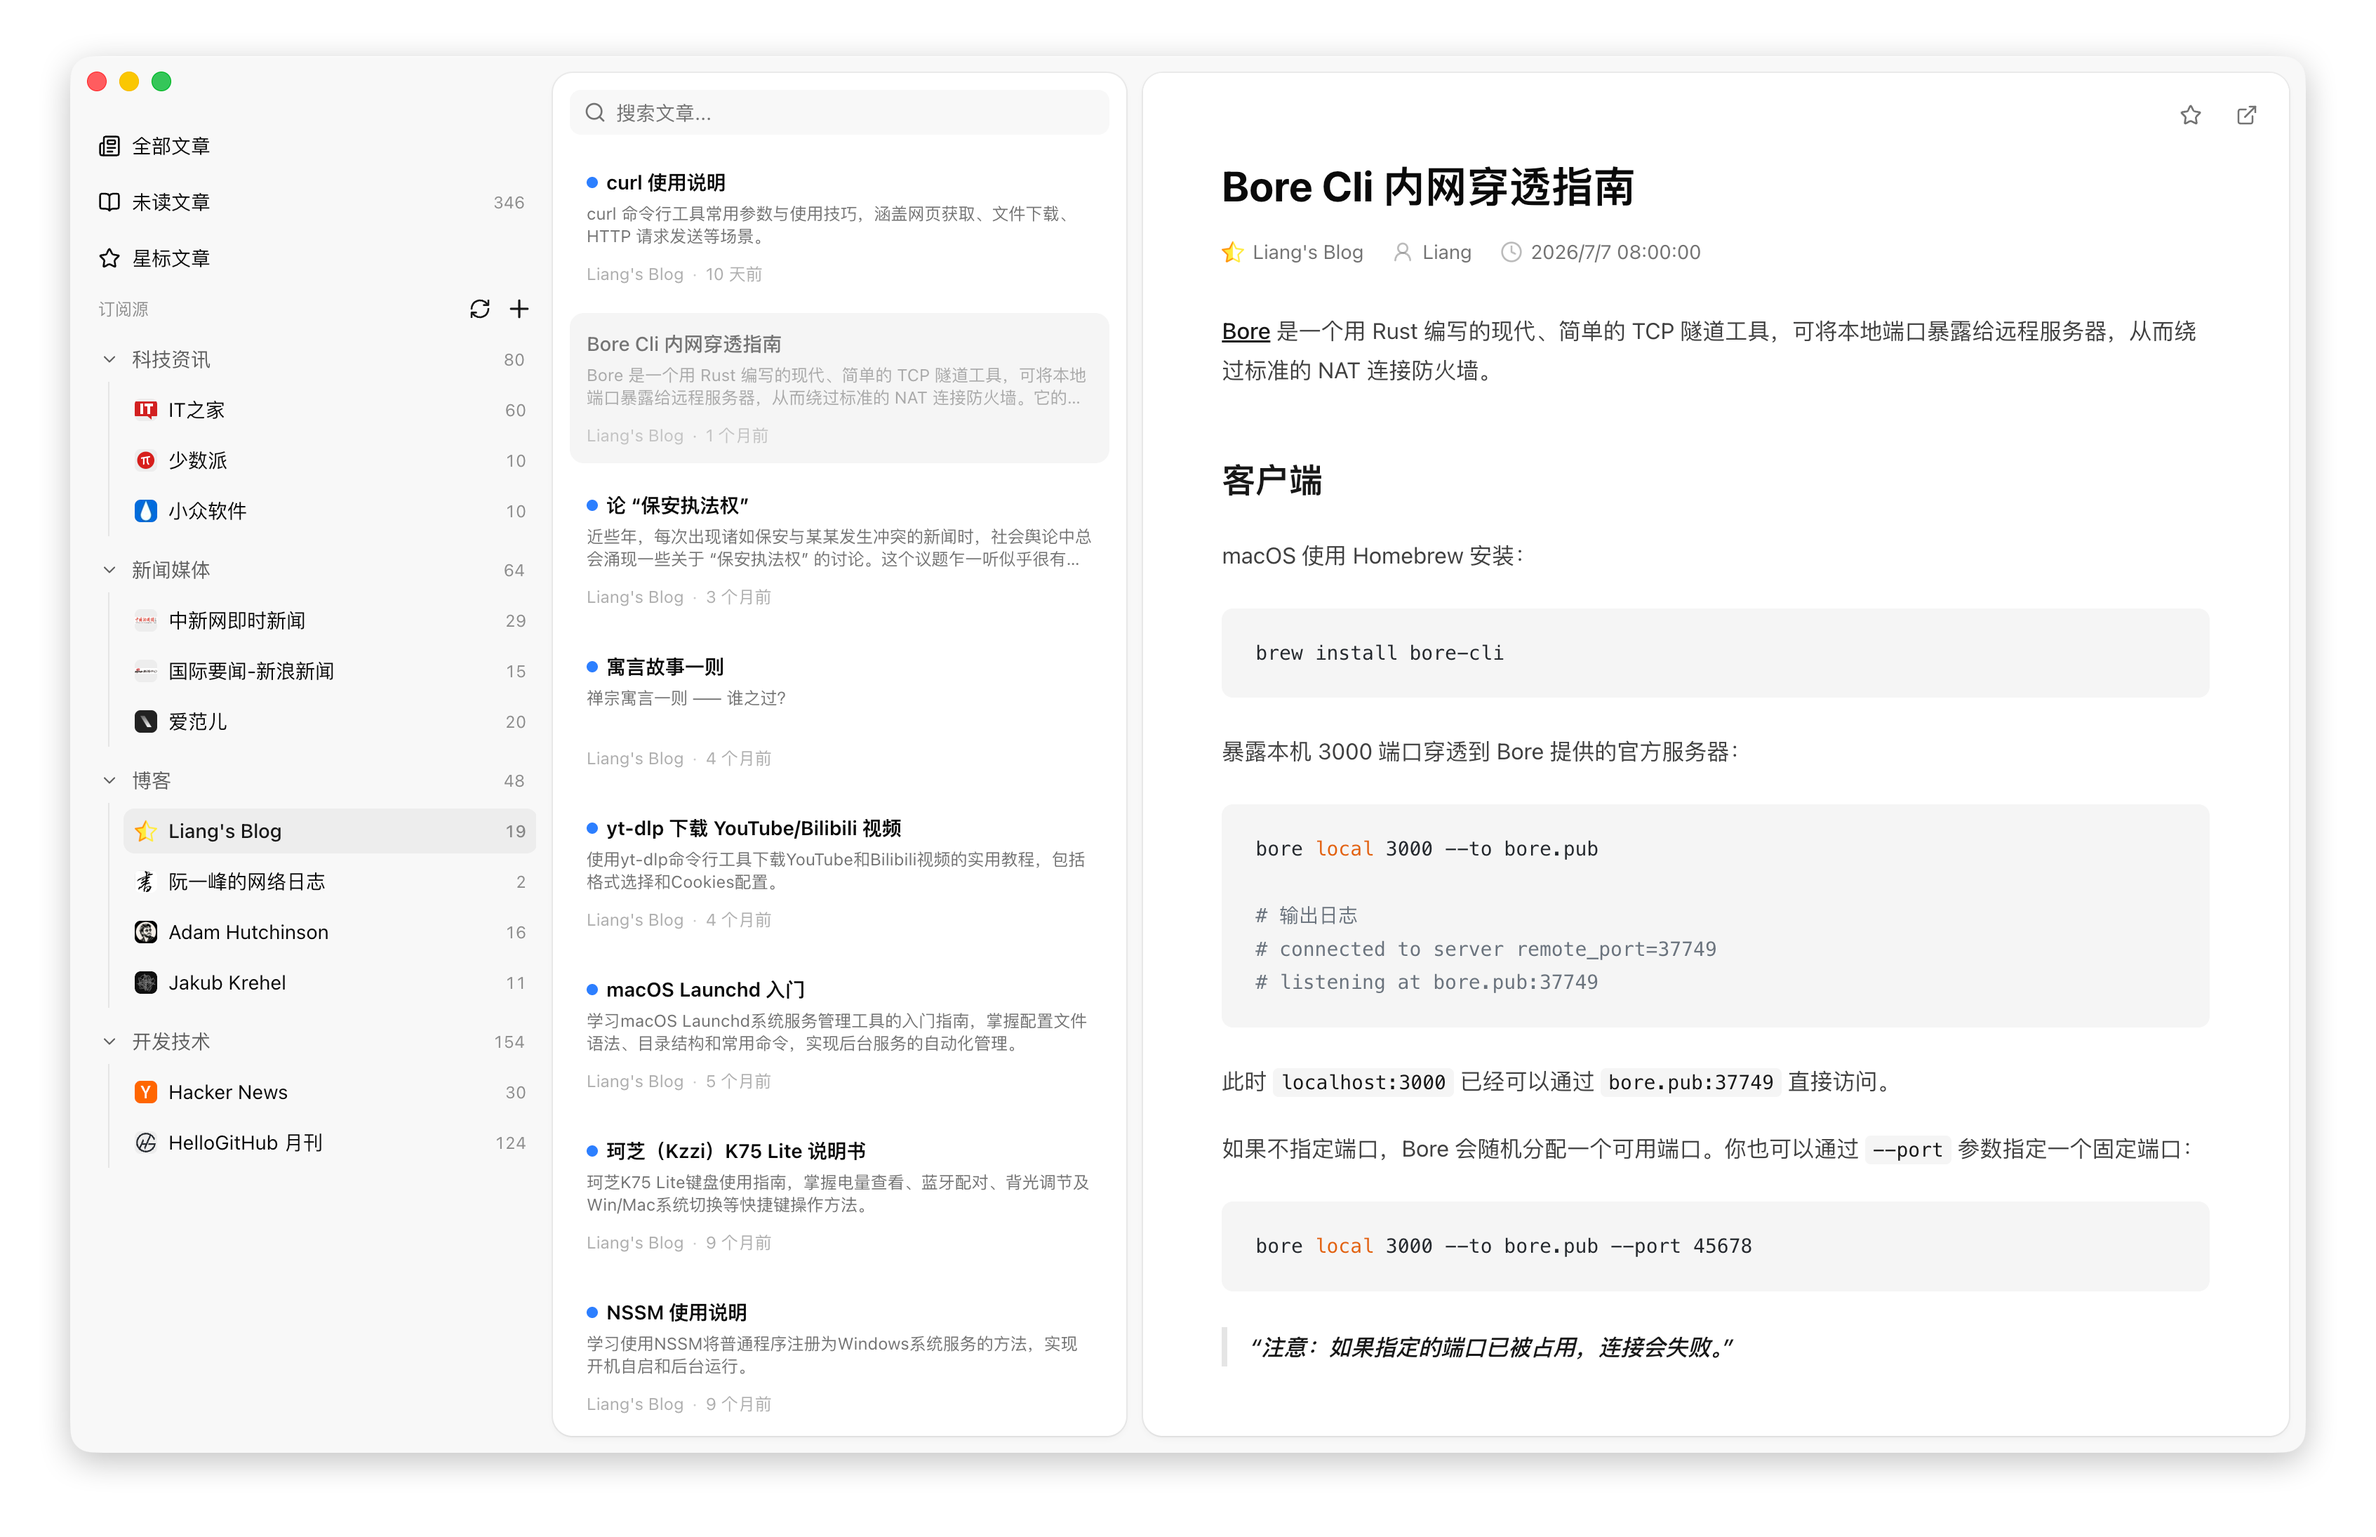
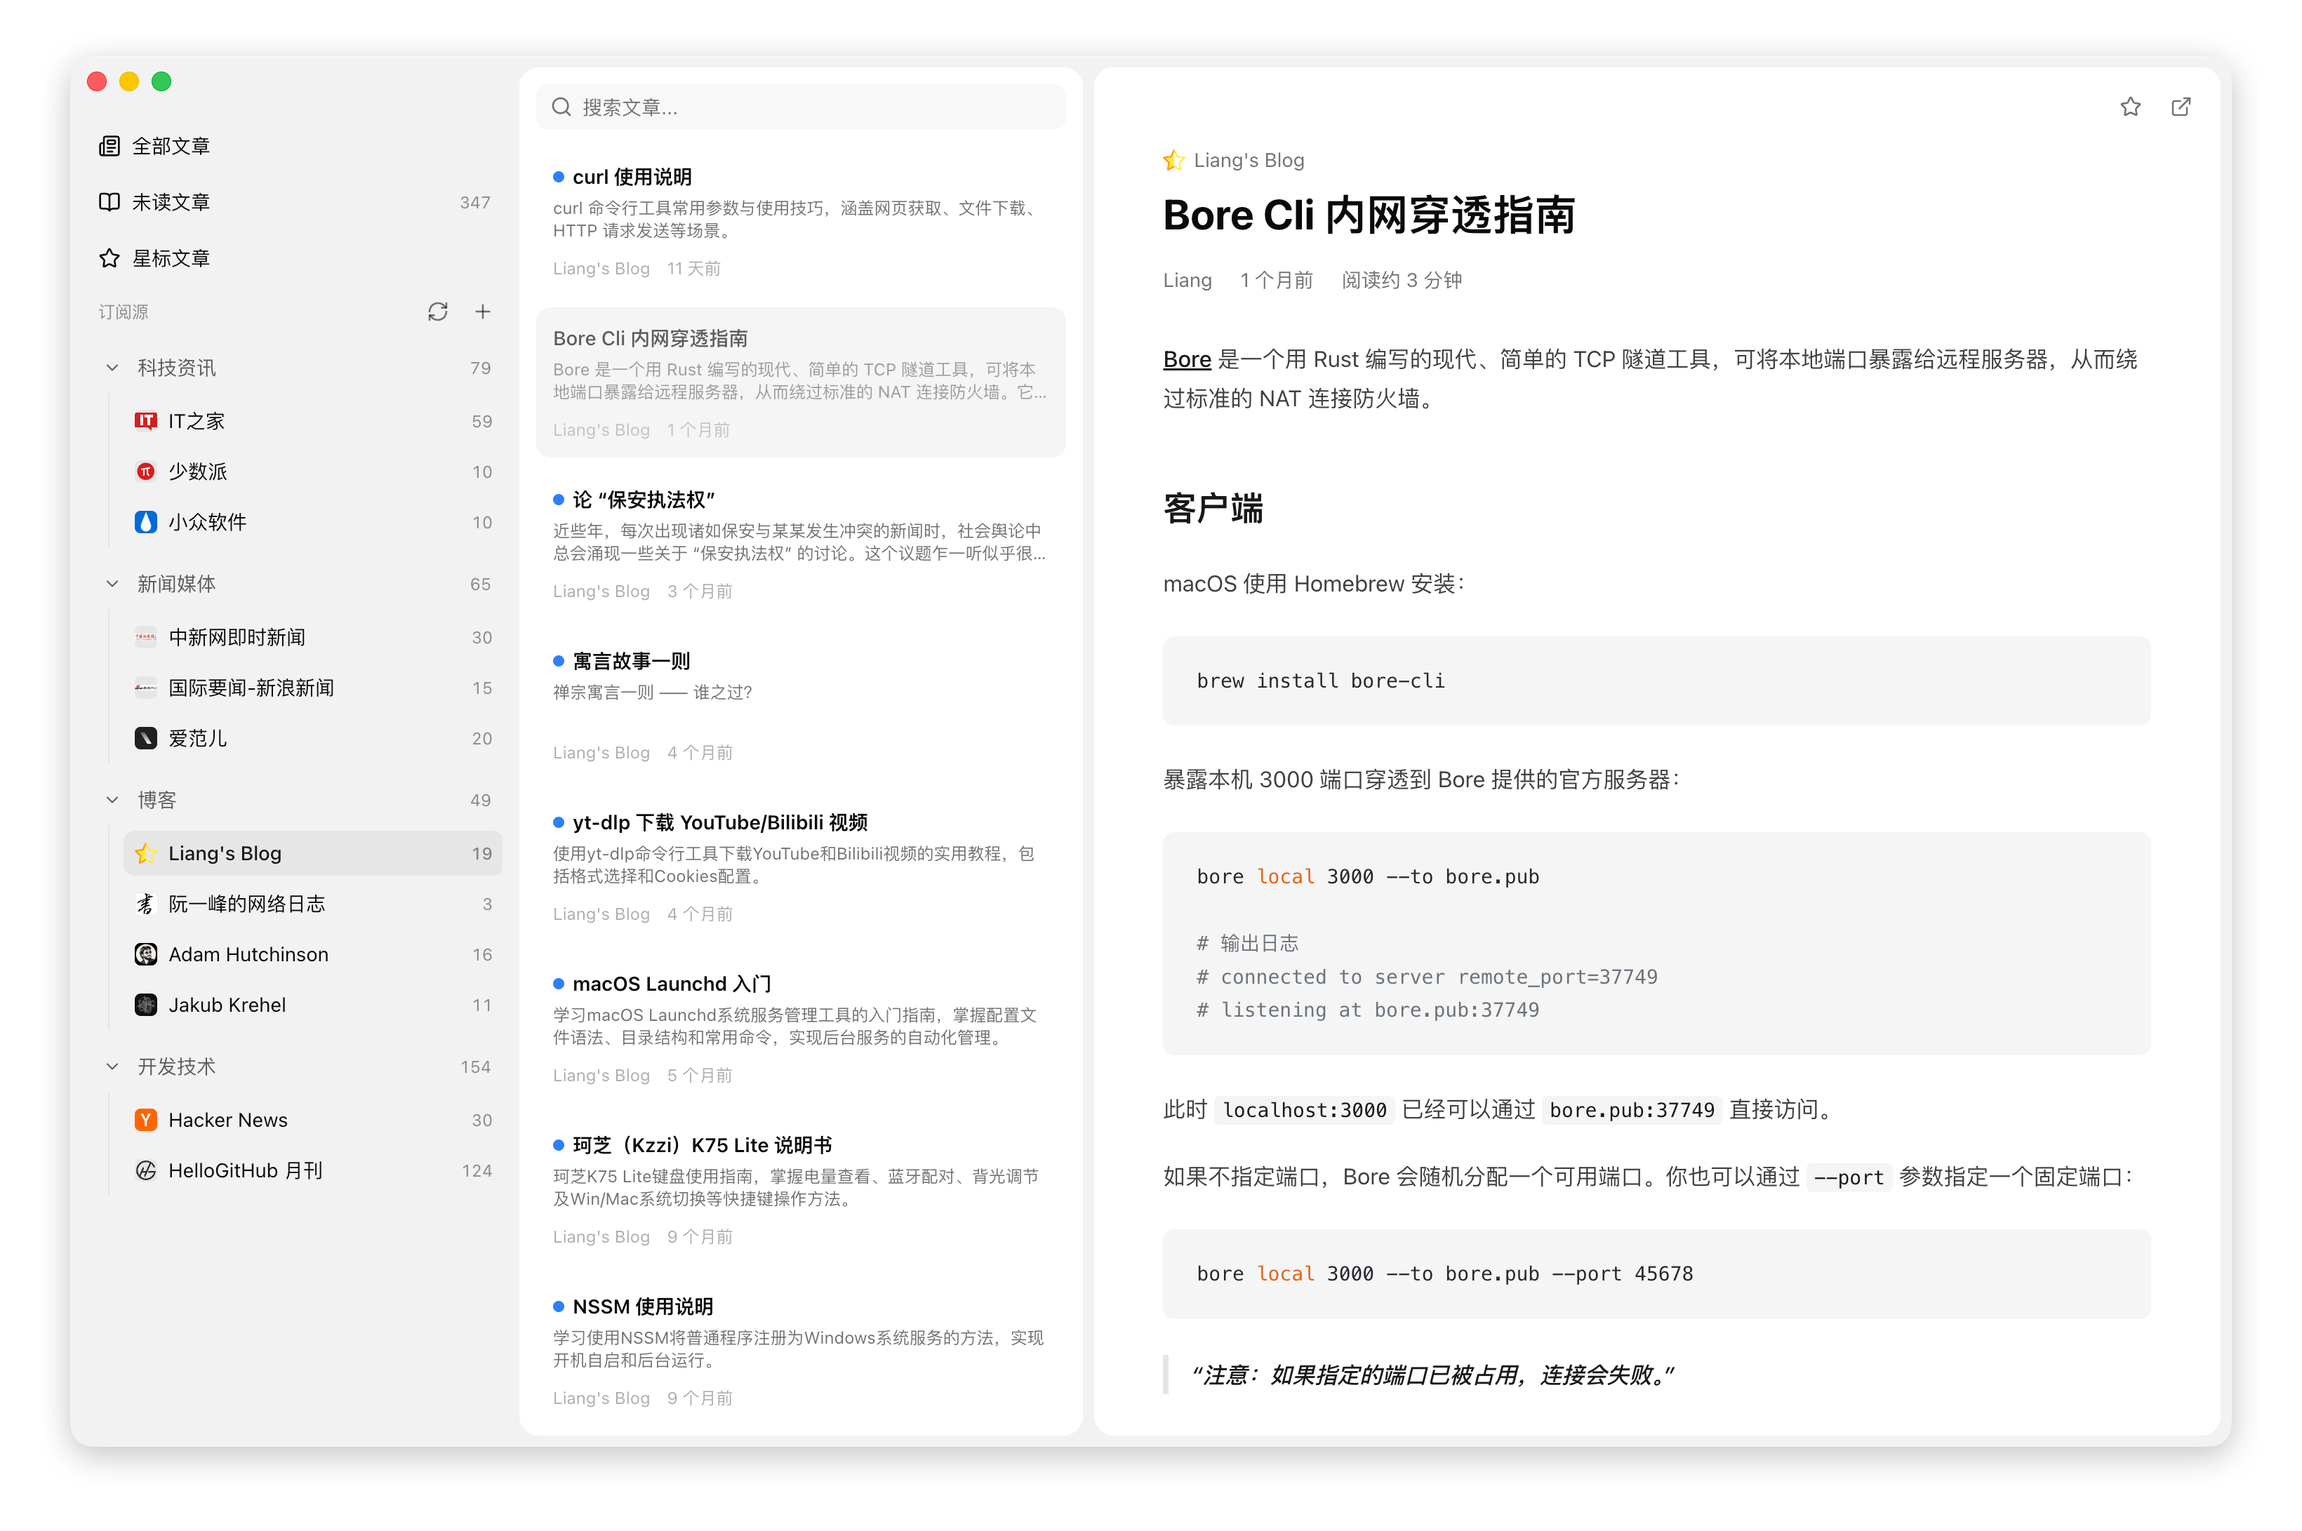
docs: 精简 README 特性、清理装饰性 emoji 并补充同步说明

diff --git a/README.md b/README.md
@@ -3,26 +3,23 @@
 > 一个清爽、专注阅读的桌面端 RSS / Atom 订阅阅读器。
 > 支持 macOS / Windows / Linux。把你喜欢的博客、新闻、漫画站点聚合到一个地方，安静地读，告别一个个开网页。
 
-## ✨ 特性
+## 特性
 
-- 📡 **订阅 RSS / Atom**：把喜欢的网站添加进来，一处聚合阅读
-- 🗂 **分类管理**：给订阅源分组，支持拖拽排序
-- ⭐ **星标收藏**：好文章一键星标，随时回看
-- 🔍 **全文搜索**：本地全文索引，秒搜所有历史文章
-- 📥 **OPML 导入 / 导出**：从旧阅读器一键搬家，也能随时备份带走
-- 🌗 **深色 / 浅色主题**：跟随系统或手动切换
-- 🖥 **系统托盘 + 未读徽标**：最小化到托盘，未读数量一目了然
-- 🔄 **定时后台刷新**：自动拉取最新文章，打开即看
-- ⌨ **快捷键**：键盘流操作，阅读更顺手
-- ⬆ **自动更新**：新版本后台下载，重启即完成升级
-- 🔒 **安全净化**：文章内容经过净化处理，安心阅读
+- **订阅 RSS / Atom**：把喜欢的网站添加进来，一处聚合阅读
+- **分类管理**：给订阅源分组，支持拖拽排序
+- **星标收藏**：好文章一键星标，随时回看
+- **全文搜索**：本地全文索引，秒搜所有历史文章
+- **多端同步**：订阅源与分类自动同步，支持 GitHub Gist / Gitee / WebDAV
+- **OPML 导入 / 导出**：从旧阅读器一键搬家，也能随时备份带走
+- **深色 / 浅色主题**：跟随系统或手动切换
+- **系统托盘 + 未读徽标**：最小化到托盘，未读数量一目了然
+- **定时后台刷新**：自动拉取最新文章，打开即看
 
-## 📸 截图
+## 截图
 
-<!-- TODO: 补充主界面截图（建议 1280×800 左右） -->
 ![主界面](docs/screenshots/main.png)
 
-## ⬇ 下载安装
+## 下载安装
 
 到 [GitHub Releases](https://github.com/lianginx/feed/releases) 下载对应平台的安装包：
 
@@ -47,15 +44,15 @@
 xattr -cr /Applications/Feed.app
 ```
 
-## 🚀 快速上手
+## 快速上手
 
 1. **添加订阅源**：点击侧边栏顶部的「+」→ 粘贴博客 / 网站的 RSS 地址（例如 `https://example.com/feed.xml`）→ 确定。应用会自动识别标题和图标。
 2. **整理分类**：右键侧边栏空白处可以新建 / 重命名 / 删除分类，右键订阅源可以移动到分类，直接拖拽也能调整顺序。
 3. **开始阅读**：点击左侧订阅源 → 中间的文章列表 → 点击任意文章即可阅读。选中文章后，用 `Cmd / Ctrl + D` 收藏（星标）、`Cmd / Ctrl + E` 标记已读 / 未读。
 
-> 💡 **不知道怎么找 RSS 地址？** 大多数网站页面底部都有「RSS / 订阅」链接，或直接在域名后加 `/feed`、`/rss`、`/atom.xml` 试试。也可以从旧阅读器导出 OPML 文件，通过「导入 OPML」整体搬进来。
+> **不知道怎么找 RSS 地址？** 大多数网站页面底部都有「RSS / 订阅」链接，或直接在域名后加 `/feed`、`/rss`、`/atom.xml` 试试。也可以从旧阅读器导出 OPML 文件，通过「导入 OPML」整体搬进来。
 
-## ⌨ 快捷键
+## 快捷键
 
 | 快捷键                   | 功能                    |
 | ------------------------ | ----------------------- |
@@ -63,17 +60,24 @@ xattr -cr /Applications/Feed.app
 | `Cmd / Ctrl + R`         | 刷新当前订阅源          |
 | `Cmd / Ctrl + Shift + R` | 刷新全部订阅源          |
 | `Cmd / Ctrl + F`         | 搜索文章                |
-| `Cmd / Ctrl + E`         | 标为已读 / 未读         |
+| `Cmd / Ctrl + E`         | 标为已读 / 标记未读     |
+| `Cmd / Ctrl + Shift + E` | 当前列表全部标为已读    |
 | `Cmd / Ctrl + D`         | 收藏 / 取消收藏（星标） |
-| `Cmd / Ctrl + Shift + A` | 全部标为已读            |
+| `Cmd / Ctrl + Shift + A` | 全部订阅源标为已读      |
 | `Cmd / Ctrl + ,`         | 打开设置                |
 
 > 「标为已读 / 未读」和「收藏」需要先选中一篇文章才生效（菜单项会随当前状态自动启用或置灰）。
 
-## ❓ 常见问题
+## 常见问题
 
 ### 我的数据存在哪里？
-所有订阅和文章都保存在本地 SQLite 数据库中（macOS 位于 `~/Library/Application Support/Feed/feed.db`），数据完全属于你自己。
+所有订阅和文章都保存在本地 SQLite 数据库中，数据完全属于你自己。数据库文件位置：
+
+| 平台    | 路径                                              |
+| ------- | ------------------------------------------------- |
+| macOS   | `~/Library/Application Support/Feed/feed.db`      |
+| Windows | `%APPDATA%\Feed\feed.db`                         |
+| Linux   | `~/.config/Feed/feed.db`                          |
 
 ### 如何从别的阅读器迁移？
 在旧阅读器里导出 OPML 文件 → 在本应用菜单里选择「导入 OPML」即可。以后想换工具，也可以随时「导出 OPML」把数据带走。
@@ -84,14 +88,16 @@ xattr -cr /Applications/Feed.app
 ### 我订阅的网站没有 RSS 怎么办？
 如果网站本身不提供 RSS，可以先用第三方服务（如 [RSSHub](https://docs.rsshub.app/)）为它生成一个订阅地址，再粘贴进来。
 
-## 👨💻 开发者
+## 开发者
 
 Feed 基于 Electron + Vue 3 + TypeScript 构建。想本地开发或参与贡献：
 
 ```bash
-pnpm install   # 安装依赖
-pnpm dev       # 启动开发环境
-pnpm build     # 类型检查 + 构建
+pnpm install     # 安装依赖
+pnpm dev         # 启动开发环境（热重载）
+pnpm typecheck   # 类型检查
+pnpm build       # 类型检查 + 构建产物
+pnpm build:mac   # 打包 macOS 安装包（build:win / build:linux 同理）
 ```
 
 更多架构、数据库、发布细节见 [docs/](./docs/) 目录下的文档，发版流程见 [docs/release.md](./docs/release.md)。
